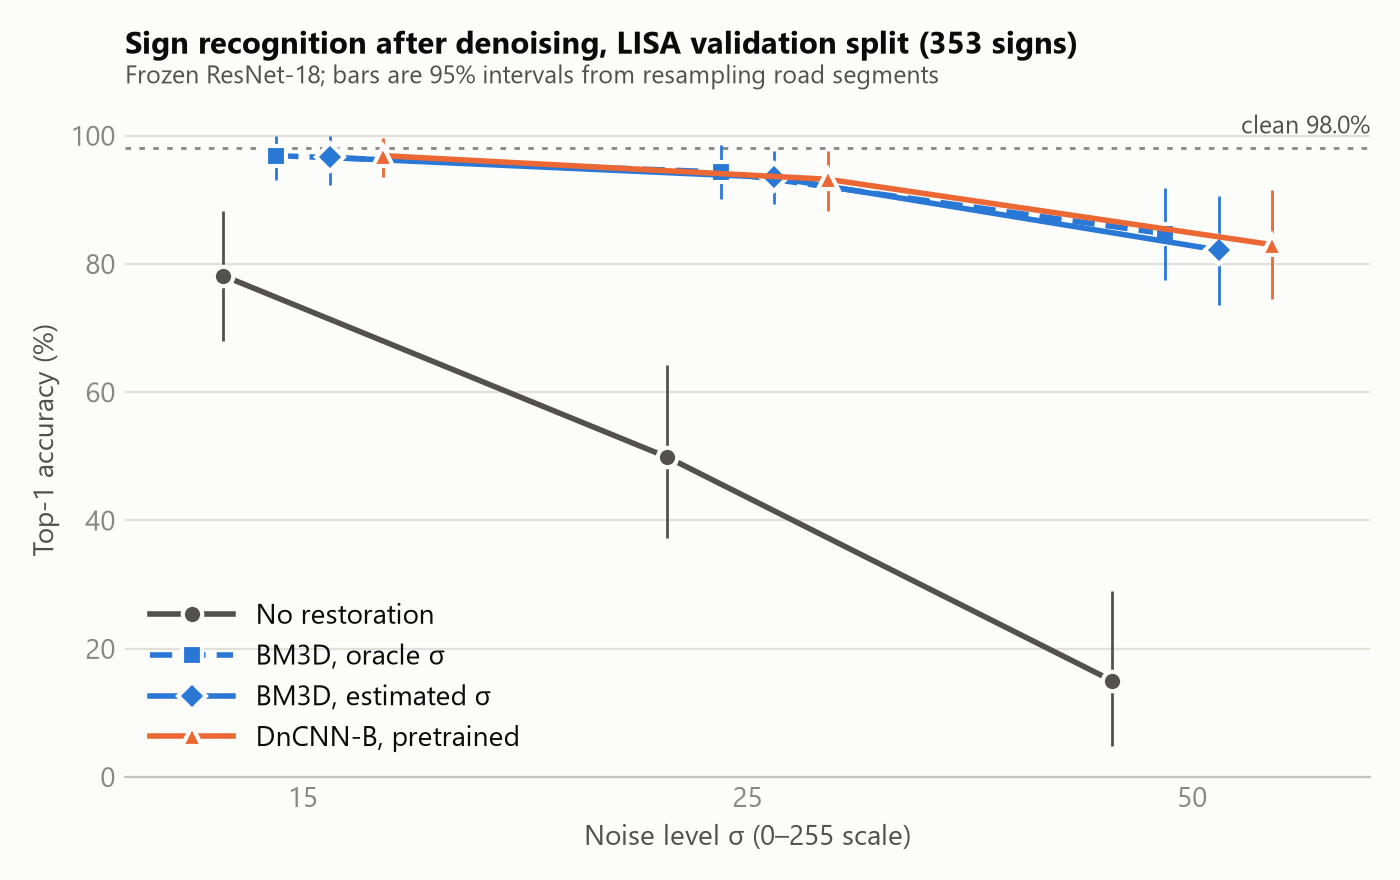
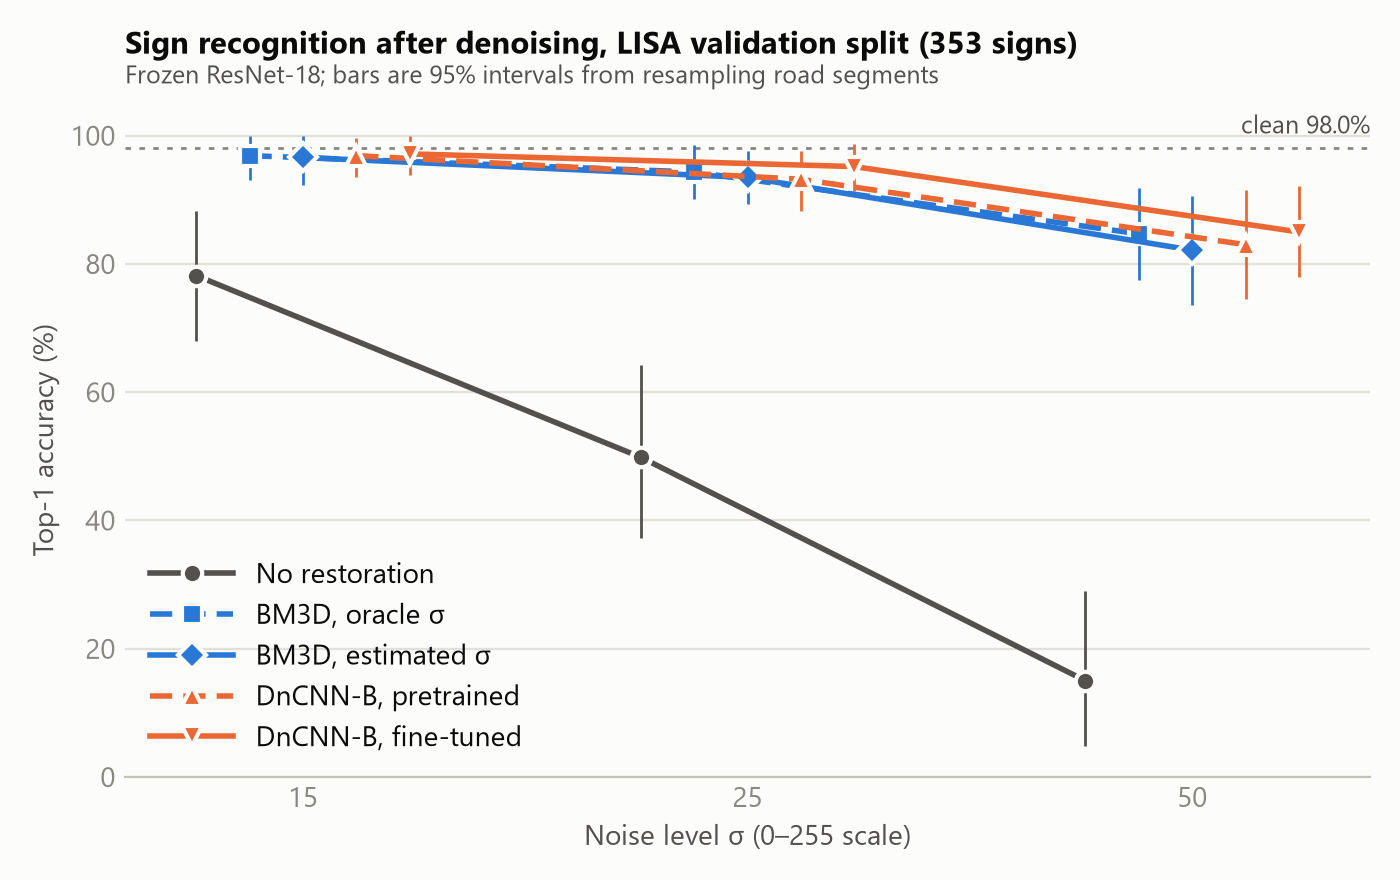
Report noise results: fine-tuned DnCNN, PSNR/SSIM and paired differences
- README: validation tables with intervals, paired accuracy differences,
  findings, runtime, and the status of the accuracy-tuned BM3D scan
- Figure now includes the fine-tuned DnCNN

diff --git a/tsr/noise_ablation.py b/tsr/noise_ablation.py
@@ -86,11 +86,14 @@ def plot():
     with open(CSV, newline="") as f:
         rows = list(csv.DictReader(f))
     ink, muted, grid, surface = "#0b0b0b", "#898781", "#e1e0d9", "#fcfcfb"
-    series = {  # name -> (label, colour, dash, marker, x offset so the points do not overlap)
-        "none": ("No restoration", "#52514e", "-", "o", -0.18),
-        "bm3d_oracle": ("BM3D, oracle σ", "#2a78d6", (0, (4, 2)), "s", -0.06),
-        "bm3d_estimated": ("BM3D, estimated σ", "#2a78d6", "-", "D", 0.06),
-        "dncnn_pretrained": ("DnCNN-B, pretrained", "#eb6834", "-", "^", 0.18),
+    # name -> (label, colour, dash, marker, x offset so the points do not overlap).
+    # Colour is the method family; dashed is the reference variant, solid the deployable one.
+    series = {
+        "none": ("No restoration", "#52514e", "-", "o", -0.24),
+        "bm3d_oracle": ("BM3D, oracle σ", "#2a78d6", (0, (4, 2)), "s", -0.12),
+        "bm3d_estimated": ("BM3D, estimated σ", "#2a78d6", "-", "D", 0.0),
+        "dncnn_pretrained": ("DnCNN-B, pretrained", "#eb6834", (0, (4, 2)), "^", 0.12),
+        "dncnn_finetuned": ("DnCNN-B, fine-tuned", "#eb6834", "-", "v", 0.24),
     }
     slot = {str(s): i for i, s in enumerate(config.NOISE_SIGMAS)}  # evenly spaced noise levels
     plt.rcParams.update({"font.family": "Segoe UI", "font.size": 10})

diff --git a/README.md b/README.md
@@ -158,7 +158,9 @@ low, high = group_ci(res["correct"], "val")                # 95% interval
 
 Rules we both follow:
 
-- **Develop on `val`.** The test split is evaluated once, at the very end.
+- **Develop on `val`.** The test split is evaluated once, at the very end. (While the
+  pipeline was being set up, clean and no-restoration accuracy were printed once on the
+  test split; no restoration method has been run on it.)
 - **Report intervals with `group_ci`.** Frames of one road segment show the same sign and
   are not independent; with only 32 groups per split the intervals are wide (several
   points), so small differences between methods are not meaningful.
@@ -178,23 +180,75 @@ Rules we both follow:
 The first two are switches in `tsr/config.py` (`WINDOW`, `UPSAMPLE`, `DEMOSAIC_AIUA`).
 Changing either one means retraining the classifier and rerunning everything.
 
-## Noise results so far (validation split, Top-1 %)
+## Noise results (Artifact A, validation split)
+
+Status on 2026-11-18. 353 validation signs from 32 road segments; clean accuracy is 98.0%.
+The test split has not been used to compare methods.
+
+![Top-1 accuracy against noise level](results/noise_ablation.png)
+
+**Top-1 accuracy (%)**, with the 95% interval from resampling road segments:
 
 | Method | sigma 15 | sigma 25 | sigma 50 |
 |---|---|---|---|
-| No restoration | 78.2 | 49.9 | 15.0 |
-| BM3D, oracle sigma | 96.9 | 94.3 | 84.7 |
-| BM3D, estimated sigma | 96.6 | 93.5 | 82.2 |
-| DnCNN-B, pretrained | 96.9 | 93.2 | 83.0 |
-| DnCNN-B, fine-tuned on LISA | 97.2 | 95.2 | 85.0 |
+| No restoration | 78.2 [68.0, 88.3] | 49.9 [37.3, 64.3] | 15.0 [4.9, 28.9] |
+| BM3D, oracle sigma | 96.9 [93.0, 100] | 94.3 [90.1, 98.5] | 84.7 [77.5, 91.9] |
+| BM3D, estimated sigma | 96.6 [92.3, 100] | 93.5 [89.4, 97.6] | 82.2 [73.6, 90.5] |
+| DnCNN-B, pretrained | 96.9 [93.5, 99.7] | 93.2 [88.3, 97.6] | 83.0 [74.6, 91.5] |
+| DnCNN-B, fine-tuned on LISA | 97.2 [93.8, 100] | 95.2 [91.4, 98.8] | 85.0 [77.9, 92.2] |
 
-Clean accuracy is 98.0%. Full numbers are in `results/noise_ablation.csv`. The
-accuracy-tuned BM3D row of the ablation is not finished yet.
+**PSNR (dB) / SSIM** of the restored window against the clean window:
+
+| Method | sigma 15 | sigma 25 | sigma 50 |
+|---|---|---|---|
+| No restoration | 24.90 / 0.570 | 20.69 / 0.399 | 15.27 / 0.208 |
+| BM3D, oracle sigma | 36.50 / 0.957 | 33.33 / 0.927 | 27.88 / 0.846 |
+| BM3D, estimated sigma | 36.28 / 0.955 | 33.02 / 0.921 | 27.59 / 0.831 |
+| DnCNN-B, pretrained | 36.38 / 0.956 | 33.23 / 0.926 | 27.76 / 0.845 |
+| DnCNN-B, fine-tuned on LISA | 37.10 / 0.960 | 34.46 / 0.936 | 30.62 / 0.875 |
+
+**Accuracy differences on the same samples** (points, 95% interval):
+
+| Comparison | sigma 15 | sigma 25 | sigma 50 |
+|---|---|---|---|
+| Fine-tuned minus pretrained DnCNN | +0.3 [0.0, +1.1] | +2.0 [+0.3, +3.8] | +2.0 [-0.5, +4.4] |
+| Fine-tuned DnCNN minus oracle BM3D | +0.3 [-0.7, +1.2] | +0.8 [-0.5, +2.3] | +0.3 [-3.0, +3.3] |
+| Fine-tuned DnCNN minus estimated BM3D | +0.6 [-0.7, +1.8] | +1.7 [+0.5, +3.3] | +2.8 [-0.8, +6.7] |
+| Oracle minus estimated BM3D | +0.3 [0.0, +0.8] | +0.8 [0.0, +1.9] | +2.5 [-0.7, +5.8] |
+
+What these show:
+
+- **Denoising recovers most of the loss.** At sigma 50 accuracy goes from 15% to 82-85%;
+  at sigma 15 every method is within about a point of the clean accuracy.
+- **Fine-tuning DnCNN helps.** It adds 2.0 points over the pretrained model at sigma 25
+  (interval excludes zero) and at sigma 50 (interval includes zero).
+- **Fine-tuned DnCNN and BM3D are tied in accuracy.** It is numerically ahead of
+  oracle-sigma BM3D at every level, but by less than a point, well inside the intervals.
+  Against the deployable estimated-sigma BM3D it is ahead by 1.7 points at sigma 25
+  (interval excludes zero).
+- **PSNR is not a stand-in for recognition.** Fine-tuned DnCNN gains 2.7 dB over BM3D at
+  sigma 50, yet accuracy is the same.
+- **The blind sigma estimate is biased low at heavy noise**, because noisy pixels are
+  clipped to [0, 255]: its mean absolute error is 0.8, 2.2 and 8.3 at sigma 15, 25, 50.
+  This is what separates estimated-sigma from oracle-sigma BM3D.
+- **Runtime.** DnCNN takes about 0.04 s per full frame on an RTX 4080. BM3D takes about
+  6 s per full frame on a 16-core CPU (1.5 s for the region around one sign).
+
+**Accuracy-tuned BM3D** (running BM3D at `alpha * estimated sigma`, with `alpha` chosen for
+recognition instead of PSNR) has one pilot run only: `alpha = 1.25` at sigma 50 gives
+85.0% [78.4, 91.8], which closes the gap to oracle-sigma BM3D (84.7%). The rest of the
+`alpha` scan has not been run.
+
+Full numbers are in `results/noise_ablation.csv`; per-sample outcomes are in
+`results/noise_ablation_correct.npz`.
 
 ```bash
 python -m tsr.noise_ablation dncnn_pretrained dncnn_finetuned   # GPU, about a minute
 python -m tsr.noise_ablation bm3d_estimated                     # CPU, about 30 minutes
 ```
+
+BM3D ignores `OMP_NUM_THREADS` and otherwise takes every core, so these runs are pinned to
+8 logical CPUs by default (`--cores N` to change).
 
 The pretrained DnCNN weights come from [cszn/KAIR](https://github.com/cszn/KAIR):
 
